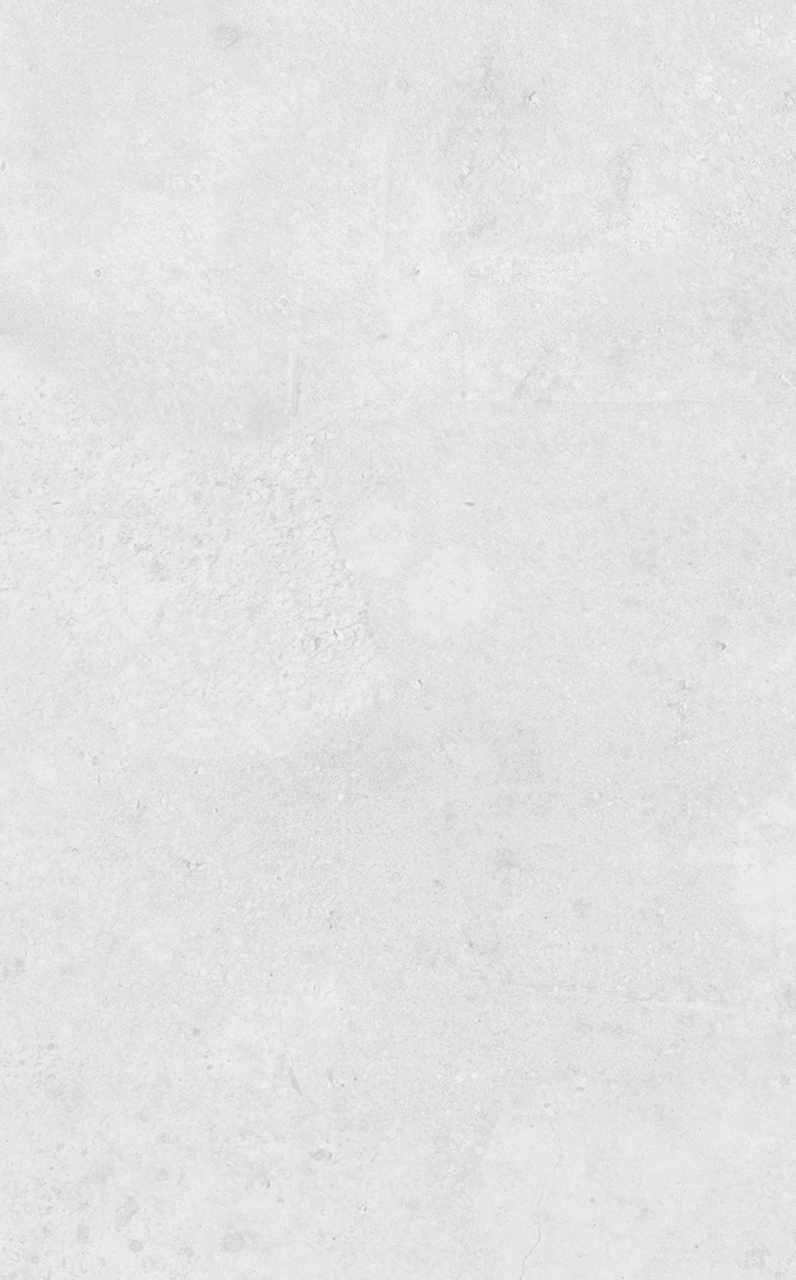
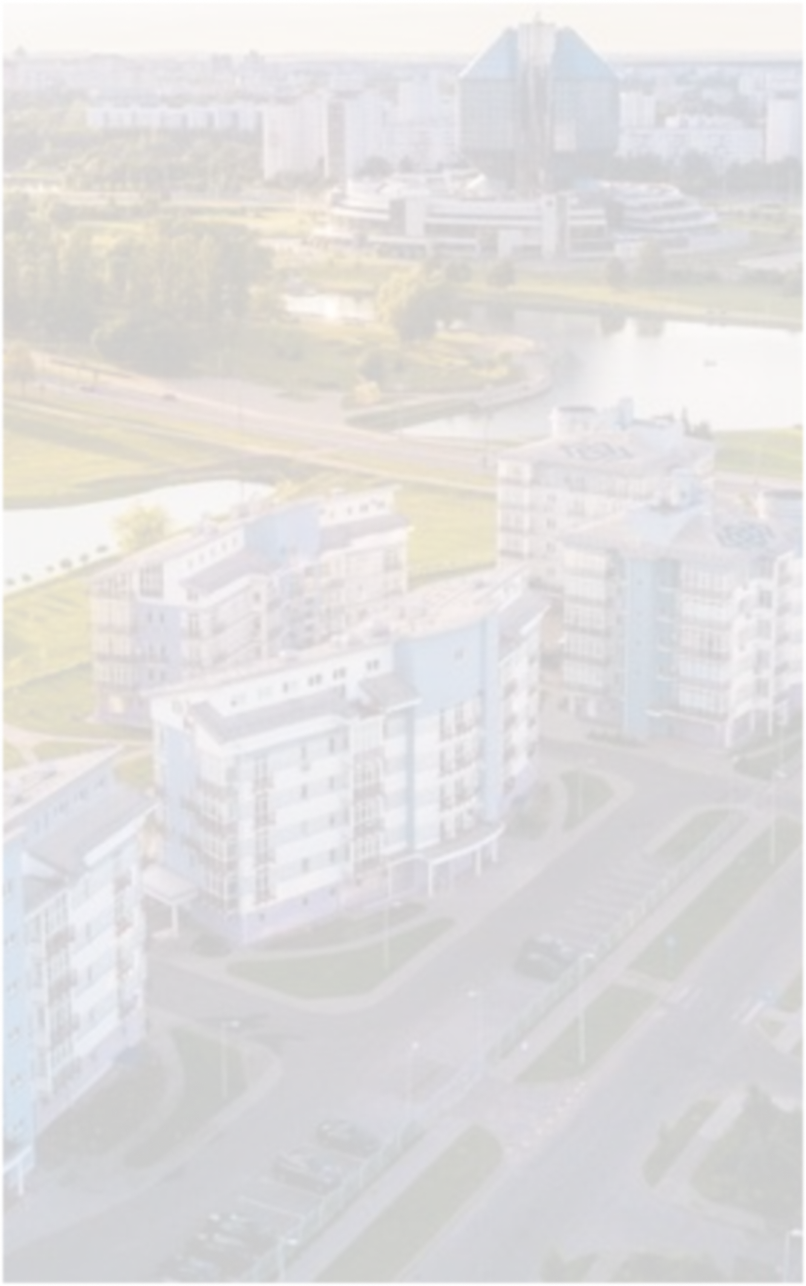
shadows

diff --git a/src/index.css b/src/index.css
@@ -129,23 +129,7 @@
   --color-success: #14ae5c;
   --color-warning: #ff5a55;
 
-  --background-default: linear-gradient(
-    150deg,
-    #405454 2%,
-    #456060 15%,
-    #678787 50%,
-    #456060 98%,
-    #405454 100%
-  );
-
-  --background-default-dimmed: linear-gradient(
-    150deg,
-    rgba(64, 84, 84) 2%,
-    rgba(69, 96, 96) 15%,
-    rgba(103, 135, 135) 50%,
-    rgba(69, 96, 96, 0.8) 98%,
-    rgba(64, 84, 84, 0.85) 100%
-  );
+  --background-default: linear-gradient(0deg, #4896c1 3.83%, #0a486a 58.03%);
 
   --background-success: linear-gradient(
     150deg,
@@ -153,7 +137,7 @@
     #5a6f40 15%,
     #748e53 50%,
     #5a6f40 98%,
-    #4b5f32 100%
+    #4b5f32 100% 
   );
 
   --background-warning: linear-gradient(
@@ -174,8 +158,7 @@
     #2f3a4a 100%
   );
 
-  --bg-dimmed: rgba(48, 48, 48, 0.55);
-  --text-shadow: 0 2px 4px rgba(0, 0, 0, 0.25);
+  --bg-dimmed: rgba(0, 0, 0, 0.4);
 }
 
 html,
@@ -242,5 +225,4 @@ button {
 a:active,
 button:active {
   transform: scale(0.98);
-  box-shadow: var(--text-shadow);
 }

diff --git a/src/components/ActionBar/index.jsx b/src/components/ActionBar/index.jsx
@@ -1,5 +1,5 @@
-import { LockOpenIcon, InformationCircleIcon } from '@heroicons/react/20/solid';
 import { useNavigate } from 'react-router-dom';
+import { InformationCircleIcon, LockOpenIcon } from '@heroicons/react/20/solid';
 import Button from '../Button';
 import styles from './styles.module.css';
 
@@ -8,18 +8,12 @@ const ActionBar = () => {
 
   return (
     <section className={styles.actionBar}>
-      <Button
-        className={styles.button}
-        onPointerDown={() => navigate('/info')}
-      >
+      <Button className={styles.button} onPointerDown={() => navigate('/info')}>
         <InformationCircleIcon className={styles.icon} />
         <span>инфо</span>
       </Button>
 
-      <Button
-        className={styles.button}
-        onPointerDown={() => navigate('/pin')}
-      >
+      <Button className={styles.button} onPointerDown={() => navigate('/pin')}>
         <LockOpenIcon className={styles.icon} />
         <span>пароль</span>
       </Button>

diff --git a/src/components/ActionBar/styles.module.css b/src/components/ActionBar/styles.module.css
@@ -8,17 +8,14 @@
   display: flex;
   justify-content: center;
   align-items: center;
-  width: calc((100% - 1rem) / 2);
-  /* width: 37.4rem; */
-  height: 9rem;
   font-weight: 300;
+  width: 37.5rem;
+  height: 9rem;
   background-color: var(--bg-dimmed);
-  text-shadow: var(--text-shadow);
 }
 
 .icon {
-  width: 4.8rem;
-  height: 4.8rem;
-  margin-right: 1.6rem;
-  filter: drop-shadow(var(--text-shadow));
+  width: 5rem;
+  height: 5rem;
+  margin-right: 3rem;
 }

diff --git a/src/components/Display/styles.module.css b/src/components/Display/styles.module.css
@@ -13,26 +13,22 @@
   text-align: center;
   direction: ltr;
   font-size: 7rem;
-  text-shadow: var(--text-shadow);
 }
 
 .clearButton {
   display: flex;
   background: none;
-  box-shadow: none;
   margin-left: 3rem;
   padding-bottom: 2rem;
 }
 
 .clearButton:active {
   transform: scale(0.98);
-  box-shadow: none;
 }
 
 .icon {
   width: 7rem;
   height: auto;
-  filter: drop-shadow(var(--text-shadow));
 }
 
 .placeholder {

diff --git a/src/pages/ModePage/styles.module.css b/src/pages/ModePage/styles.module.css
@@ -20,7 +20,6 @@
 .title {
   font-size: 6.4rem;
   text-align: center;
-  text-shadow: var(--text-shadow);
   margin-bottom: 5rem;
 }
 
@@ -28,7 +27,6 @@
   font-weight: 300;
   font-size: 2.6rem;
   text-align: center;
-  text-shadow: var(--text-shadow);
 }
 
 .iconWrapper {
@@ -41,5 +39,4 @@
 .icon {
   width: 6rem;
   height: auto;
-  filter: drop-shadow(var(--text-shadow));
 }

diff --git a/src/components/CallModal/styles.module.css b/src/components/CallModal/styles.module.css
@@ -19,8 +19,6 @@
   width: 100%;
   max-width: 74rem;
   padding: 10rem 0 15rem;
-  background: var(--background-default-dimmed);
-  box-shadow: var(--text-shadow);
   border: 2px solid var(--text-color-light);
   opacity: 0.95;
 }
@@ -53,7 +51,6 @@
 .icon {
   width: 8rem;
   height: auto;
-  filter: drop-shadow(var(--text-shadow));
 }
 
 .cancelArea {

diff --git a/src/setupMock.js b/src/setupMock.js
@@ -36,7 +36,7 @@ if (import.meta.env.DEV) {
           str14: 'str14',
           contacts: contacts,
           news: news,
-          backgroundColor: '#793db9',
+          // backgroundColor: '#793db9',
           backgroundImage: '/bg-image.png',
           // font: 'Caveat',
         });

diff --git a/src/components/KeyPad/styles.module.css b/src/components/KeyPad/styles.module.css
@@ -17,13 +17,11 @@
   font-weight: 300;
   font-size: 6.4rem;
   background-color: var(--bg-dimmed);
-  text-shadow: var(--text-shadow);
 }
 
 .icon {
   width: 6rem;
   height: auto;
-  filter: drop-shadow(var(--text-shadow));
 }
 
 .iconOpen,

diff --git a/src/components/Prompt/styles.module.css b/src/components/Prompt/styles.module.css
@@ -2,10 +2,7 @@
   display: flex;
   justify-content: center;
   align-items: center;
-  height: 100%;
-  margin: 0;
-  font-weight: 300;
   font-size: 2.3rem;
-  text-align: center;
+  font-weight: 300;
   text-transform: uppercase;
 }

diff --git a/src/components/NotificationModal/styles.module.css b/src/components/NotificationModal/styles.module.css
@@ -40,12 +40,10 @@
 .title {
   font-size: 6.4rem;
   text-align: center;
-  text-shadow: var(--text-shadow);
   margin-bottom: 5rem;
 }
 
 .message {
   font-size: 4.8rem;
   text-align: center;
-  text-shadow: var(--text-shadow);
 }

diff --git a/src/pages/InfoPage/styles.module.css b/src/pages/InfoPage/styles.module.css
@@ -72,12 +72,14 @@
   margin-bottom: 2rem;
 }
 
-h2 {
+.contacts h2,
+.news h2 {
   font-size: 4.8rem;
   margin-bottom: 3rem;
 }
 
-p {
+.contacts p,
+.news p {
   font-weight: 300;
   font-size: 3rem;
   margin-bottom: 2rem;

diff --git a/src/components/PrefixesList/styles.module.css b/src/components/PrefixesList/styles.module.css
@@ -13,7 +13,6 @@
   width: 100%;
   height: 13rem;
   background-color: var(--bg-dimmed);
-  text-shadow: var(--text-shadow);
 }
 .emptyKey {
   width: 100%;
